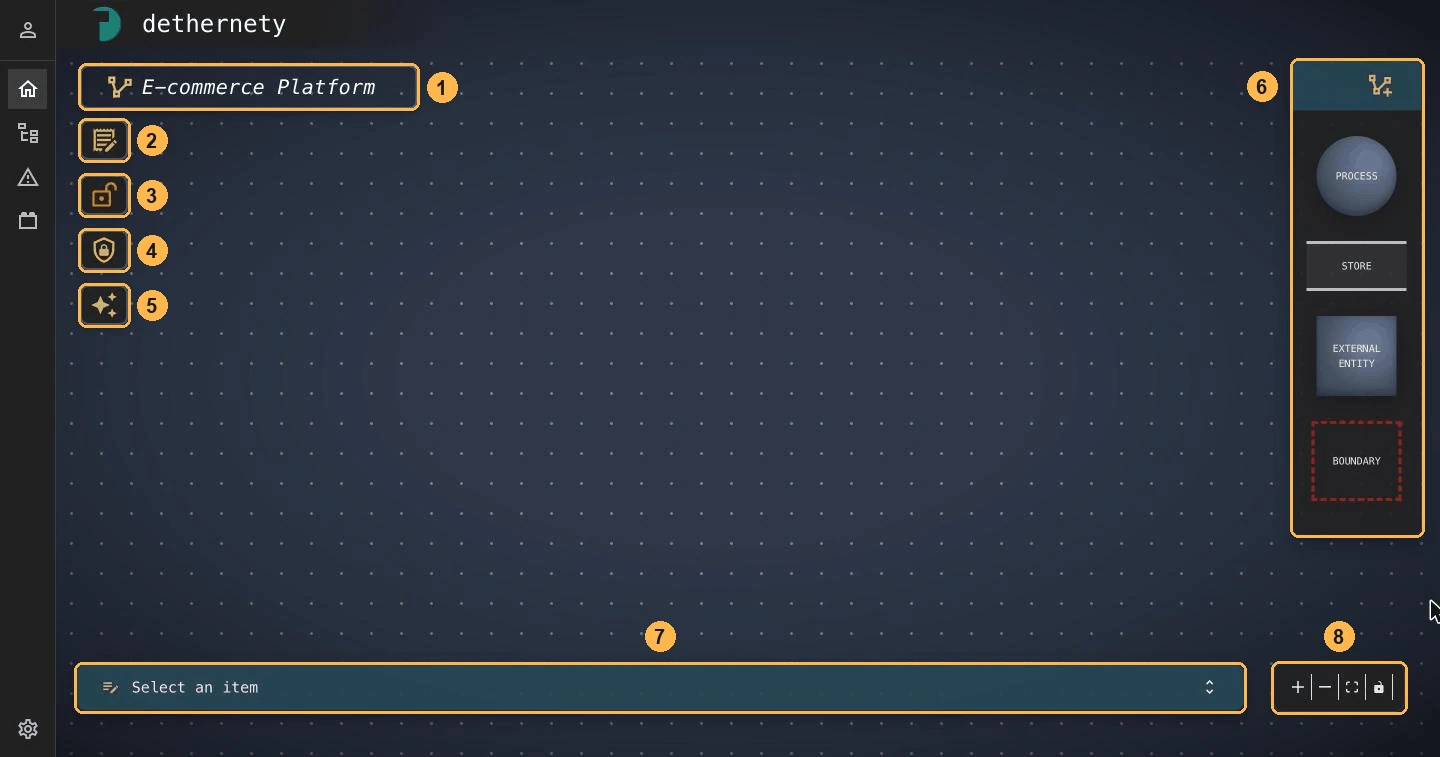
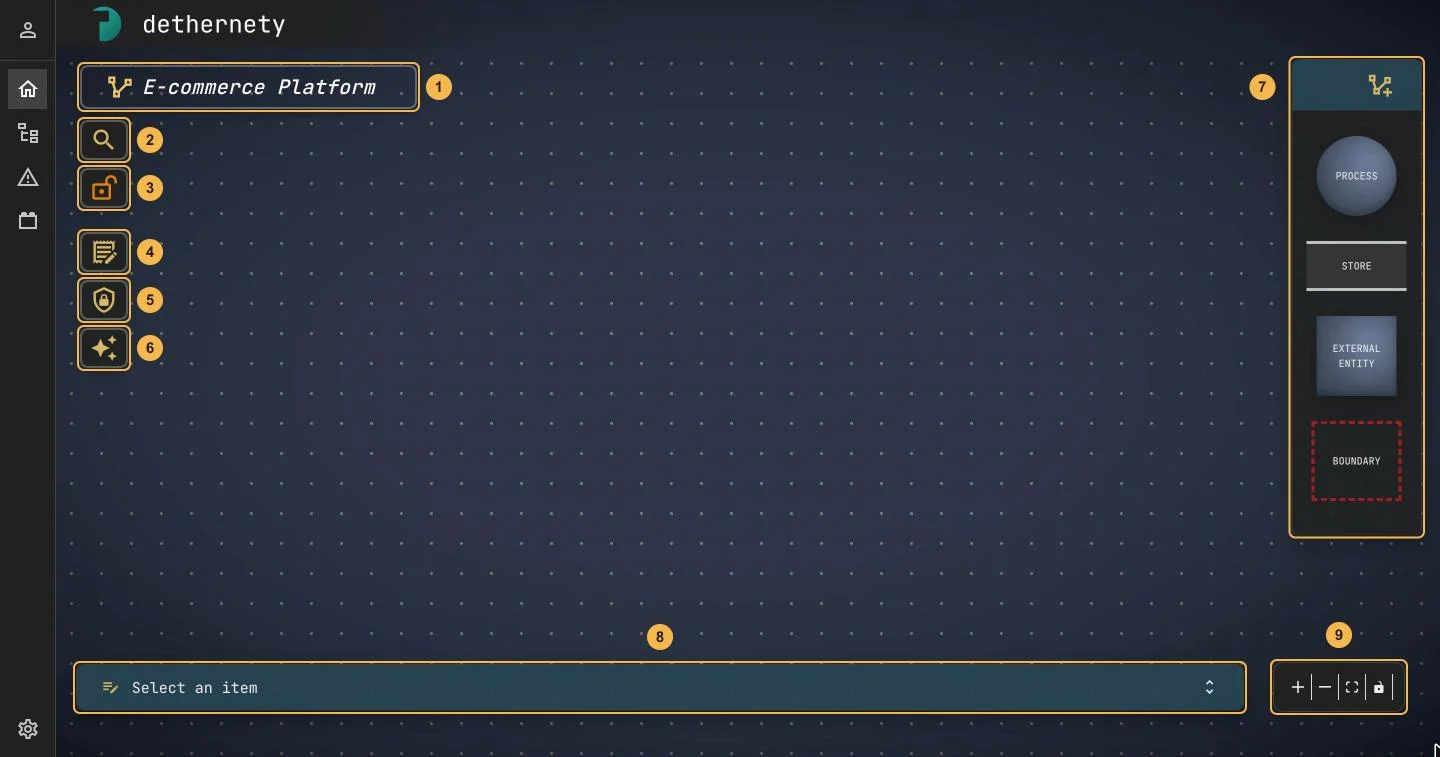
docs(user): the first-model guide's editor tour for the regrouped rail and search (#447)
The editor's rail now starts with search and the edit lock, then model
settings, zoning overview and analyses. The editor tour figure is retaken
with nine callouts in that order, its list gains Search, and the later
references to the rail buttons by number follow. The view-mode note no
longer says that nothing dragged changes the model: a drop from the palette
turns edit mode on, while moving, resizing or connecting existing elements
still needs the padlock open. A tip in "Check your work" points to Ctrl/Cmd+F
for finding an element on a busy canvas.

diff --git a/docs/user/BUILDING_YOUR_FIRST_MODEL.md b/docs/user/BUILDING_YOUR_FIRST_MODEL.md
@@ -72,20 +72,21 @@ flowchart LR
 
 You'll do most of your work in the **data flow editor**. Here are its parts, so the steps below make sense. You open it for the first time in [Create your model](#create-your-model).
 
-![The empty data flow editor for E-commerce Platform, with eight numbered callouts. 1 marks the model name at the top left. 2 to 5 mark the four buttons stacked under it. 6 marks the palette on the right with Process, Store, External Entity, and Boundary. 7 marks the "Select an item" bar along the bottom. 8 marks the zoom controls at the bottom right.](images/first-model/editor-tour.webp)
+![The empty data flow editor for E-commerce Platform, with nine numbered callouts. 1 marks the model name at the top left. 2 to 6 mark the five buttons stacked under it, in two groups with a gap between them: 2 Search and 3 Edit lock, the open padlock, then 4 Model settings, 5 Zoning overview, and 6 Analyses. 7 marks the palette on the right with Process, Store, External Entity, and Boundary. 8 marks the "Select an item" bar along the bottom. 9 marks the zoom controls at the bottom right.](images/first-model/editor-tour.webp)
 
 1. **Model name**: the model you're editing.
-2. **Model settings**: opens the model dialog, where you edit the name, description, and compliance drivers, or export the model.
+2. **Search** (magnifier icon, or Ctrl+F, ⌘F on a Mac): finds components, boundaries, and data flows by name. Pick a match to select it and centre the view on it.
 3. **Edit lock**: switches between edit mode (open padlock, tooltip *Edit mode (click to lock)*) and view mode (closed padlock, tooltip *View mode (click to edit)*).
-4. **Zoning overview**: lists every boundary and its trust zone.
-5. **Analyses** (sparkle icon): creates and runs analyses on the model.
-6. **Palette**: the four element types, **Process**, **Store**, **External Entity**, and **Boundary**. Click its header to collapse or expand it.
-7. **Properties panel**: shows the settings of whatever you select. It reads *Select an item* until you select something. Use the chevron at its right end to expand or collapse it.
-8. **Canvas controls**: zoom in, zoom out, fit view, and the interactivity lock.
+4. **Model settings**: opens the model dialog, where you edit the name, description, and compliance drivers, or export the model.
+5. **Zoning overview**: lists every boundary and its trust zone.
+6. **Analyses** (sparkle icon): creates and runs analyses on the model.
+7. **Palette**: the four element types, **Process**, **Store**, **External Entity**, and **Boundary**. Click its header to collapse or expand it.
+8. **Properties panel**: shows the settings of whatever you select. It reads *Select an item* until you select something. Use the chevron at its right end to expand or collapse it.
+9. **Canvas controls**: zoom in, zoom out, fit view, and the interactivity lock.
 
 The canvas is a boundary too. It is the model's **Default Boundary**, the outermost container that holds everything else. Click an empty spot on the canvas and the panel reads *Boundary: Default Boundary*. It has no **Zoning** tab, so you give trust zones to the boundaries you draw inside it.
 
-> **Important:** When you reopen a model later, it opens in **view mode**: the padlock (3) is closed and the palette (6) is collapsed. Nothing you drag or click changes the model. Click the padlock to start editing, then click the palette header to expand it. A brand-new model opens ready to edit.
+> **Important:** When you reopen a model later, it opens in **view mode**: the padlock (3) is closed and the palette (7) is collapsed. Click the padlock to start editing, then click the palette header to expand it. Dropping an element from the palette also turns edit mode on, but moving, resizing, or connecting existing elements needs the padlock open. A brand-new model opens ready to edit.
 
 ---
 
@@ -124,7 +125,7 @@ The buttons along the bottom of the dialog have icons but no tooltips:
 | 5 | **Delete** | Deletes the model, after you confirm by typing its name. |
 | 6 | **Open data flow editor** | Saves, then opens the model on the canvas. |
 
-To come back to this dialog later, click **Model settings** (2) in the editor, or click the settings icon on the model's tile in the Browser. Right-clicking the tile also works.
+To come back to this dialog later, click **Model settings** (4) in the editor, or click the settings icon on the model's tile in the Browser. Right-clicking the tile also works.
 
 > **Note:** The model has no module step. The classes you pick for boundaries, components, and data flows come from the modules installed on your deployment, and every model gets the same set. See [Where the classes you can pick come from](UNDERSTANDING_MODULES.md#where-the-classes-you-can-pick-come-from).
 
@@ -280,11 +281,13 @@ New exposures are **pending**: nobody has reviewed them yet. **Affirm** confirms
 Before you run the report, make sure the model is complete.
 
 1. **Every element has a class.** No orange **?** badges are left on the canvas.
-2. **Every boundary has a trust zone.** Click **Zoning overview** (4). The dialog lists each boundary with its trust zone, role, and channels. The chip at the top reads **0 unclassified**. If it doesn't, turn on **Show only unclassified** to find the boundary you missed.
+2. **Every boundary has a trust zone.** Click **Zoning overview** (5). The dialog lists each boundary with its trust zone, role, and channels. The chip at the top reads **0 unclassified**. If it doesn't, turn on **Show only unclassified** to find the boundary you missed.
 
    ![The Zoning overview dialog. A "0 unclassified" chip and a "Show only unclassified" switch are at the top. The table lists DMZ, Internal Network, and Database Zone with their declared trust zones, the role Undecided, and their channels.](images/first-model/zoning-overview.webp)
 
 3. **The diagram matches the plan.** Compare your canvas with the figure in [What you will build](#what-you-will-build): seven components, three boundaries with their zone chips, six flows, and a gold outline on Customer Database.
+
+> **Tip:** On a busy canvas, press Ctrl+F (⌘F on a Mac) and type part of a name. Every match stays lit and the rest of the canvas dims.
 
 ---
 
@@ -292,7 +295,7 @@ Before you run the report, make sure the model is complete.
 
 Analyses come from modules, not from the core platform, so the analysis types you can run depend on the modules your deployment has installed. **A stock install has one analysis type, Threat Report.** It reads your model as it stands and summarises its residual risk: which exposures are open, which crown jewels can be reached, and where flows cross boundaries. It runs in seconds, asks you no questions, and never changes the model. Additional modules can add other analysis types.
 
-1. Click **Analyses** (5), the sparkle icon. A dialog titled *Analysis: E-commerce Platform* opens.
+1. Click **Analyses** (6), the sparkle icon. A dialog titled *Analysis: E-commerce Platform* opens.
 2. Click **+ New Analysis**. A menu lists one entry for each available analysis type. Click **Threat Report**.
 3. A row appears, named *Threat Report*, with the status **Ready**. Click **Run**.
 4. Within a few seconds, the status changes to **Done** and the button changes to **View results**. Click it.
@@ -372,7 +375,7 @@ You can save a model as a portable ZIP archive, for a backup, to share with a co
 
 ### Export a model
 
-1. Open the model dialog: click **Model settings** (2) in the editor, or click the settings icon on the model's tile in the Browser.
+1. Open the model dialog: click **Model settings** (4) in the editor, or click the settings icon on the model's tile in the Browser.
 2. Click **Export** (3, the download icon). The dialog saves the model and opens **Export Model**.
 3. Click the download button. Your browser saves `<model name>-export.zip`.
 
